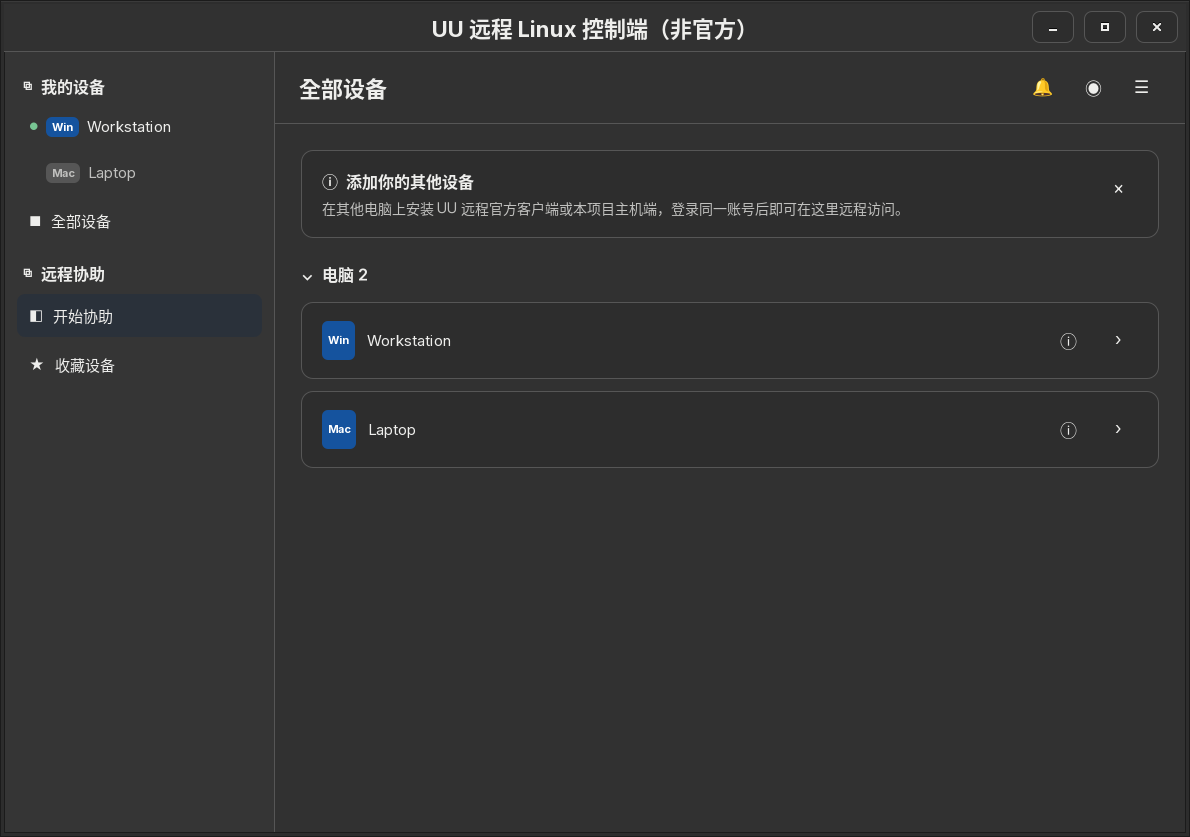
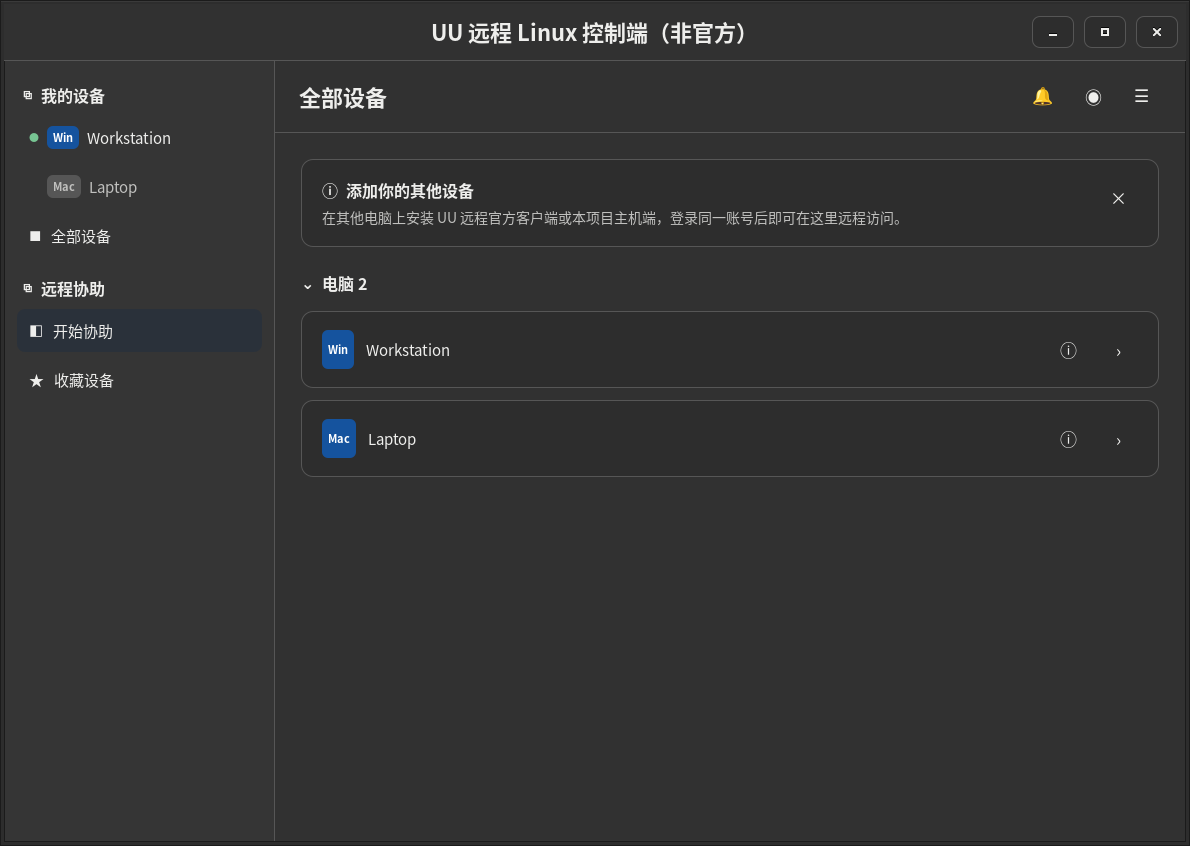
fix(ui): address review and avoid cached Cairo surface in smoke tests

diff --git a/tests/gtk_ui_smoke.c b/tests/gtk_ui_smoke.c
@@ -1,5 +1,7 @@
 // Offline fixtures only: no account, QR, cloud, or desktop capture is used.
 #include <gtk/gtk.h>
+#include <gdk/gdkx.h>
+#include <cairo-xlib.h>
 #include <string.h>
 #include <stdlib.h>
 int uu_i18n_english(void) { return g_strcmp0(g_getenv("UU_LANG"), "zh") != 0; }
@@ -48,7 +50,13 @@ static gboolean snapshot(GtkWidget *w, const char *path) {
     g_assert_cmpint(y + height, <=, gdk_screen_height());
     gdk_window_process_updates(native, TRUE);
     gdk_display_sync(gtk_widget_get_display(w));
-    GdkPixbuf *shot = gdk_pixbuf_get_from_window(native, 0, 0, width, height);
+    // GTK 3.24.33's get_from_window marks its cached surface dirty without flushing;
+    // Cairo 1.16 can abort on attached MIME data. Read through a fresh X11 surface.
+    cairo_surface_t *surface = cairo_xlib_surface_create(GDK_WINDOW_XDISPLAY(native),
+        GDK_WINDOW_XID(native), GDK_VISUAL_XVISUAL(gdk_window_get_visual(native)), width, height);
+    g_assert_cmpint(cairo_surface_status(surface), ==, CAIRO_STATUS_SUCCESS);
+    GdkPixbuf *shot = gdk_pixbuf_get_from_surface(surface, 0, 0, width, height);
+    cairo_surface_destroy(surface);
     g_assert_nonnull(shot);
     const guchar *pixels = gdk_pixbuf_read_pixels(shot);
     int low = 255, high = 0;
@@ -72,6 +80,21 @@ static gboolean snapshot(GtkWidget *w, const char *path) {
 
 static const char *output;
 static int expected_mode, stage;
+#if defined(UI_VIEWER)
+static void verify_badge(void) {
+    for (int i = 0; i < 2; i++) {
+        show_device(i); // Fixture 0 is online, fixture 1 is offline.
+        GtkStyleContext *ctx = gtk_widget_get_style_context(badge);
+        GdkRGBA actual, expected;
+        g_assert_cmpint(gtk_style_context_has_class(ctx, "off"), ==, i == 1);
+        g_assert_true(gtk_style_context_lookup_color(ctx, i ? "uu_muted" : "uu_success", &expected));
+        gtk_style_context_get_color(ctx, GTK_STATE_FLAG_NORMAL, &actual);
+        g_assert_cmpfloat_with_epsilon(actual.red, expected.red, 0.005);
+        g_assert_cmpfloat_with_epsilon(actual.green, expected.green, 0.005);
+        g_assert_cmpfloat_with_epsilon(actual.blue, expected.blue, 0.005);
+    }
+}
+#endif
 static gboolean verify(gpointer unused) {
     (void)unused;
     if (!stage) {
@@ -100,6 +123,9 @@ static gboolean verify(gpointer unused) {
         char *path = g_strconcat(output, ".settings.png", NULL);
         gboolean painted = snapshot(settings, path); g_free(path);
         if (!painted) return G_SOURCE_CONTINUE;
+#if defined(UI_VIEWER)
+        verify_badge();
+#endif
         expected_mode = expected_mode == 2 ? 1 : 2;
         gtk_combo_box_set_active(GTK_COMBO_BOX(combo), expected_mode);
         stage++;
@@ -108,6 +134,9 @@ static gboolean verify(gpointer unused) {
     gboolean dark = FALSE;
     g_object_get(gtk_settings_get_default(), "gtk-application-prefer-dark-theme", &dark, NULL);
     g_assert_cmpint(dark, ==, expected_mode == 2);
+#if defined(UI_VIEWER)
+    verify_badge();
+#endif
     char *path = g_build_filename(g_get_user_config_dir(), "uuremote", "theme", NULL), *saved = NULL;
     g_assert_true(g_file_get_contents(path, &saved, NULL, NULL));
     g_assert_cmpstr(saved, ==, expected_mode == 2 ? "dark" : "light");

diff --git a/c_engine/viewer_window.c b/c_engine/viewer_window.c
@@ -26,7 +26,7 @@ static const char *CSS =
     ".icon { background-color: @uu_accent; color: @uu_accent_fg; border-radius: 6px; font-size: 11px; font-weight: 700; padding: 3px 6px; }\n"
     ".icon.off { background-color: @uu_border; color: @uu_muted; }\n"
     ".header { border-bottom: 1px solid @uu_border; padding: 16px 24px; }\n"
-    ".badge { background-color: @uu_tint; color: @uu_fg; border-radius: 8px; padding: 4px 10px; font-size: 13px; }\n"
+    ".badge { background-color: @uu_tint; color: @uu_success; border-radius: 8px; padding: 4px 10px; font-size: 13px; }\n"
     ".badge.off { background-color: @theme_bg_color; color: @uu_muted; }\n"
     ".hbtn { font-size: 17px; padding: 6px 10px; }\n"
     ".preview { background-image: none; background-color: @uu_tint; border-radius: 12px 12px 0 0; }\n"

diff --git a/c_engine/ui_theme.c b/c_engine/ui_theme.c
@@ -7,6 +7,7 @@
 static int initialized, mode;
 static const char *modes[] = {"system", "light", "dark"};
 static const char *CSS =
+    "* { font-family: 'Noto Sans CJK SC', 'Noto Sans SC', sans-serif; }\n"
     "@define-color uu_bg mix(@theme_bg_color, @theme_base_color, 0.5);\n"
     "@define-color uu_surface @theme_base_color;\n"
     "@define-color uu_fg @theme_fg_color;\n"

diff --git a/README.md b/README.md
@@ -21,14 +21,10 @@
 
 ## 外观 / Appearance
 
-GTK 主机、控制端和文件传输 / 端口映射 / 终端列表窗口使用统一的扁平化样式。
-在控制端的 **设置 → 常规 → 外观**，或主机 / 工具窗口的齿轮设置按钮中选择 **跟随系统 / 浅色 / 深色**，
-当前进程中的窗口立即生效。默认跟随桌面的 GTK 主题（包括运行期间的主题变化）；
-浅色和深色使用 GTK 自带的 Adwaita，保证控件和弹窗的配色一致。
-选择保存在 `$XDG_CONFIG_HOME/uuremote/theme`（默认 `~/.config/uuremote/theme`），
-其他已打开的主机 / 控制端进程在下次启动时读取。此设置只影响本地 GTK 界面，远程桌面图像和 SDL 控制面板不受影响。
+在控制端的 **设置 → 常规 → 外观**，或主机 / 工具窗口的齿轮设置按钮中选择 **跟随系统 / 浅色 / 深色**（默认跟随系统）。
+选择保存在 `$XDG_CONFIG_HOME/uuremote/theme`（默认 `~/.config/uuremote/theme`）。
 
-[浅色 / 深色预览与验证说明](docs/ui-appearance.md)。
+<p align="center"><img src="docs/images/appearance-light.png" width="360" alt="浅色界面（虚构设备）"> <img src="docs/images/appearance-dark.png" width="360" alt="深色界面（虚构设备）"></p>
 
 ## 语言 / Language
 

diff --git a/README.en.md b/README.en.md
@@ -25,16 +25,10 @@
 
 ## Appearance / 外观
 
-The GTK host, viewer launcher, and file transfer / port mapping / terminal list windows share a flat style.
-Choose **Settings → General → Appearance → System / Light / Dark** in the viewer,
-or open the gear settings button in the host / tool windows. Windows in the current process update immediately.
-System is the default and follows the desktop's GTK theme, including theme changes while running;
-Light and Dark use GTK's bundled Adwaita theme for consistent controls and dialogs.
+Choose **System / Light / Dark** (default: System) in the viewer's **Settings → General → Appearance**, or via the gear settings button in host / tool windows.
 The choice is saved to `$XDG_CONFIG_HOME/uuremote/theme` (default `~/.config/uuremote/theme`).
-Other already running host / viewer processes read it on their next start. This changes only the local GTK UI;
-remote desktop images and the SDL control panel are unaffected.
 
-[Light / dark previews and validation notes](docs/ui-appearance.md).
+<p align="center"><img src="docs/images/appearance-light.png" width="360" alt="Light appearance (synthetic devices)"> <img src="docs/images/appearance-dark.png" width="360" alt="Dark appearance (synthetic devices)"></p>
 
 ## Language / 语言
 
